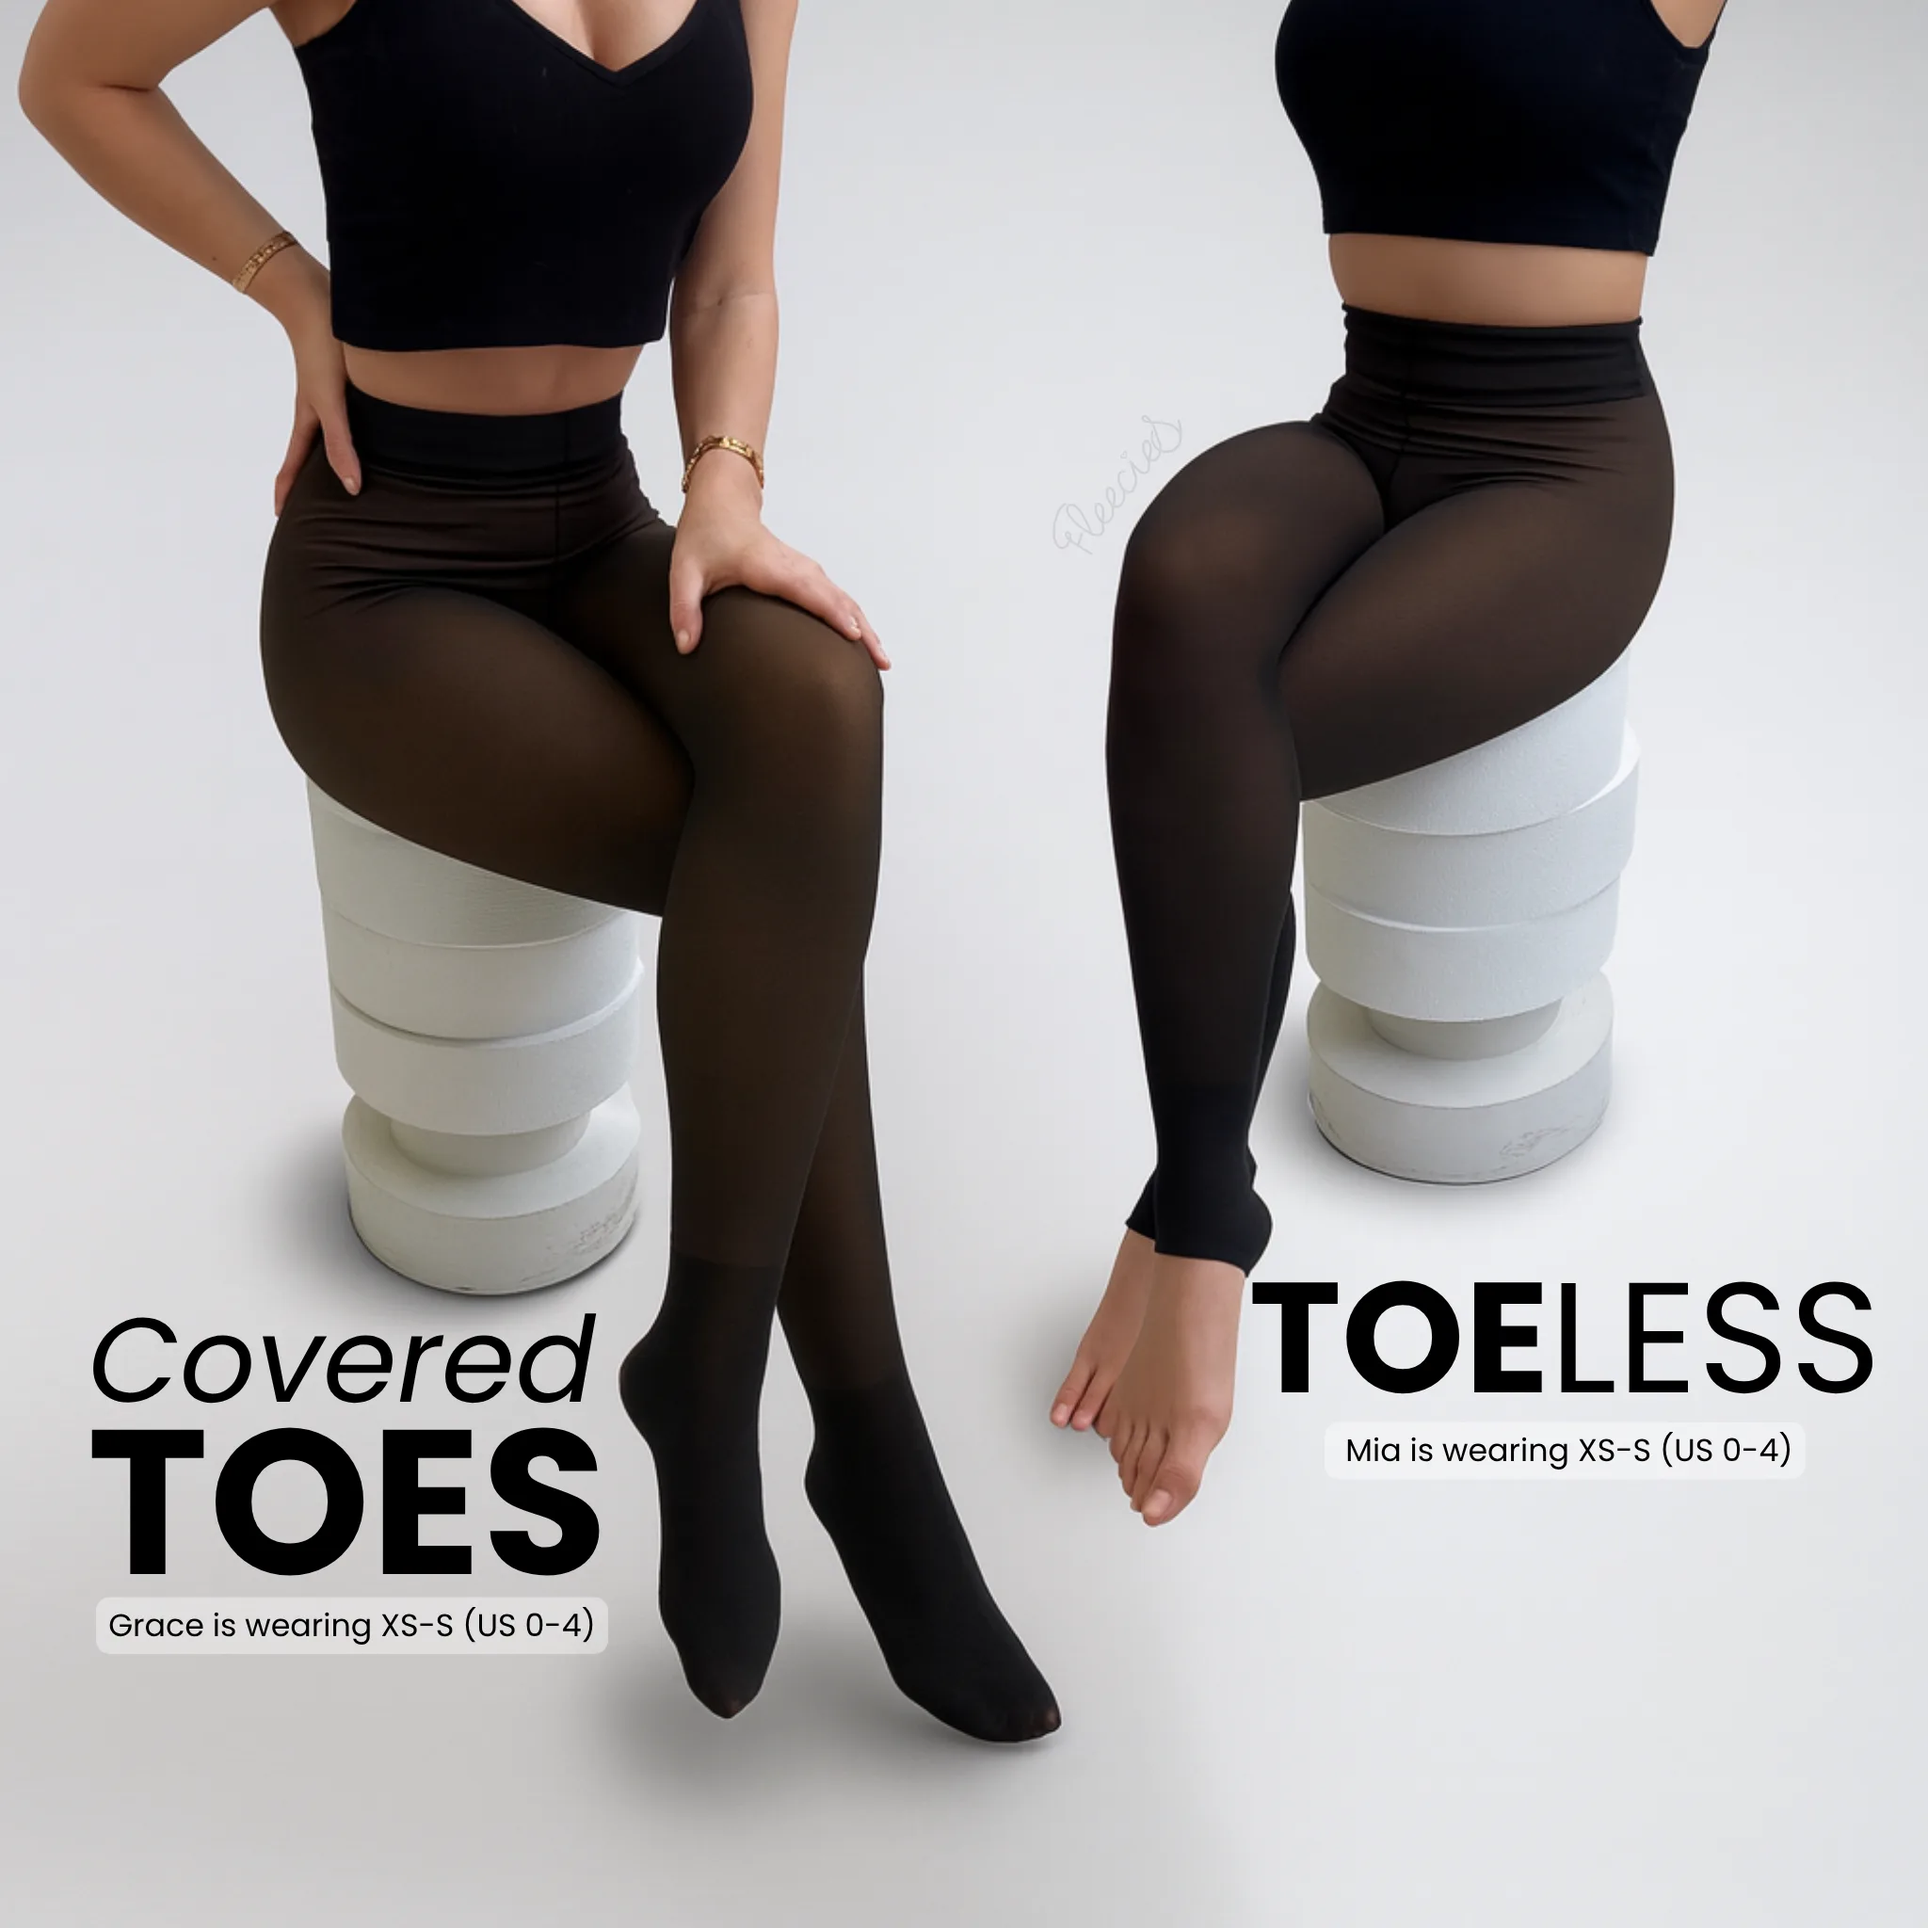
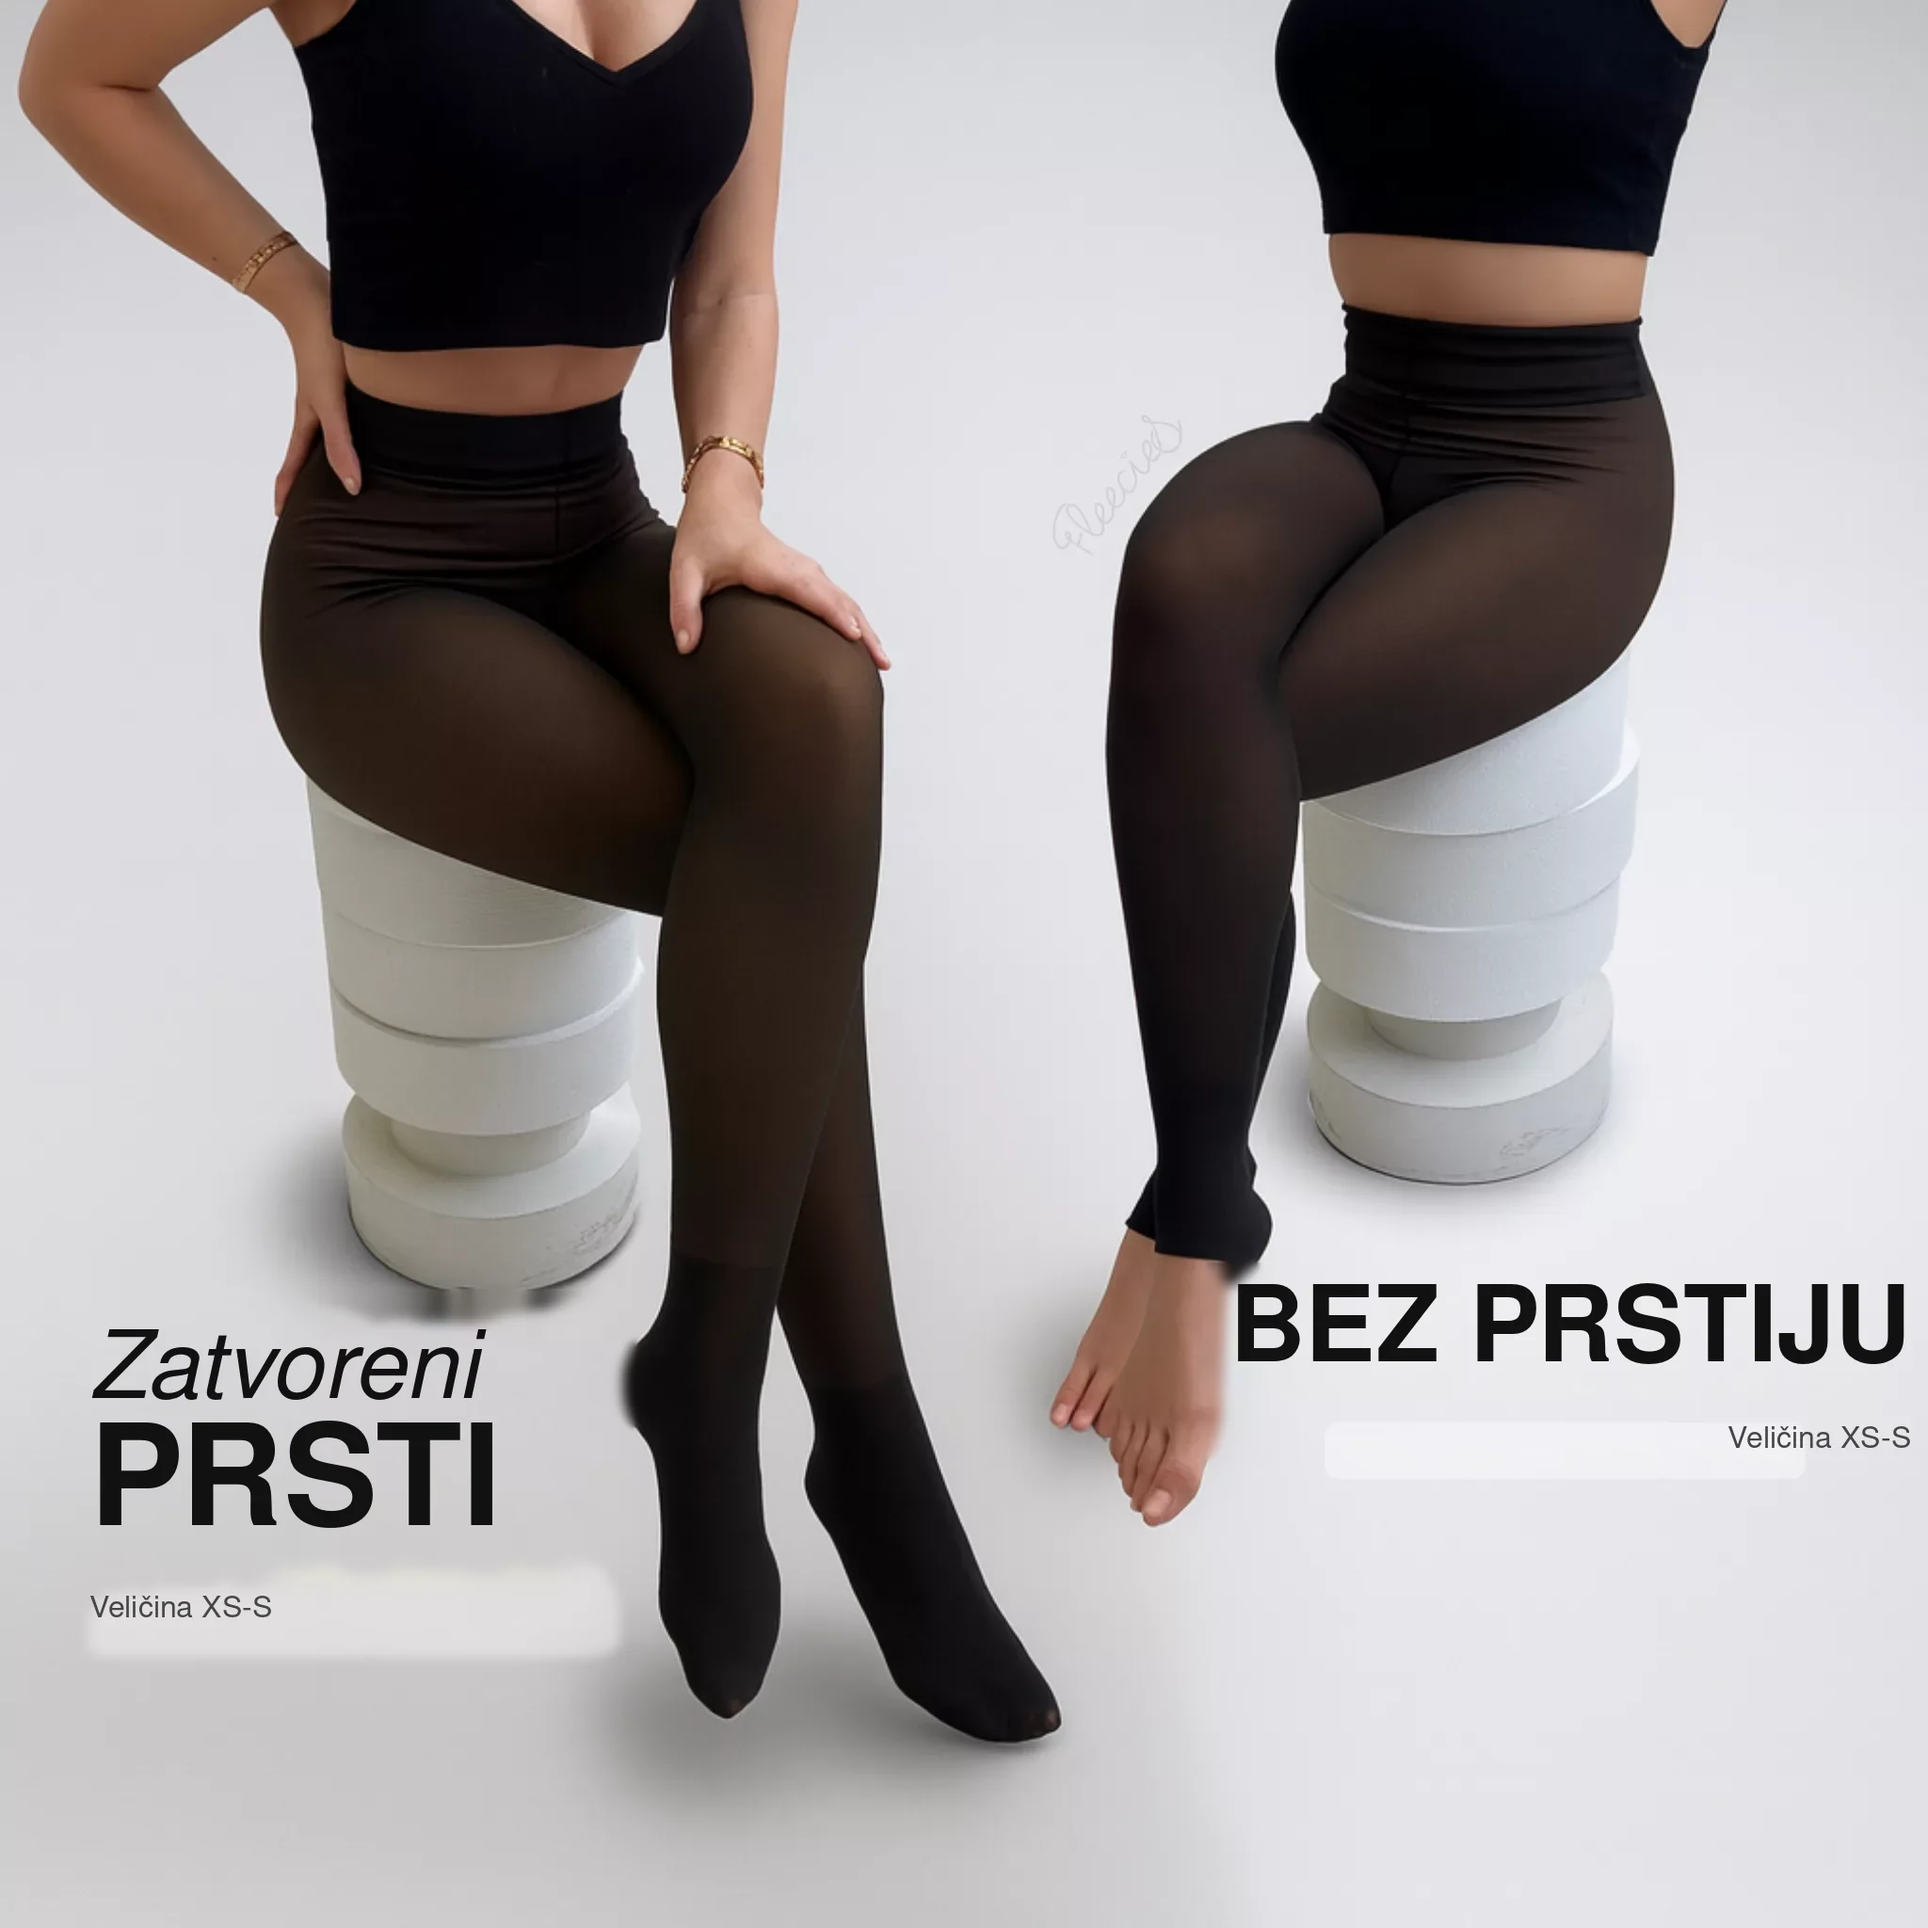
Classics: lokalizirane slike - galerija 10 slik brez anglescine in znamke (57% OFF/FALL SALE, logotip na vrecki, Vanilla/Honey, Fleece lining, Diaper bum, napisi o modelih -> hrvaski napisi), why slika prstov v hrvascini (?v=2 zaradi predpomnilnika)

Changed region(s): [[0.0312, 0.6562, 0.3438, 0.8438], [0.625, 0.6562, 1.0, 0.7812]]

diff --git a/wp-content/themes/noriks/template_parts/product-bottom/why-classics.php b/wp-content/themes/noriks/template_parts/product-bottom/why-classics.php
@@ -65,7 +65,7 @@ $wdir = get_template_directory_uri() . '/img/classics/';
 
   <section class="wclassics__s wclassics__s--bg">
     <div class="wclassics__v">
-      <div class="wclassics__media"><img src="<?php echo esc_url( $wdir . 'classics-15.webp' ); ?>" alt="Zatvoreni ili otvoreni prsti" loading="lazy" decoding="async"></div>
+      <div class="wclassics__media"><img src="<?php echo esc_url( $wdir . 'classics-15.webp?v=2' ); ?>" alt="Zatvoreni ili otvoreni prsti" loading="lazy" decoding="async"></div>
       <div class="wclassics__tekst">
         <div class="wclassics__kicker">DVA MODELA STOPALA</div>
         <h2 class="wclassics__h2">Zatvoreni ili <em>otvoreni prsti</em></h2>
